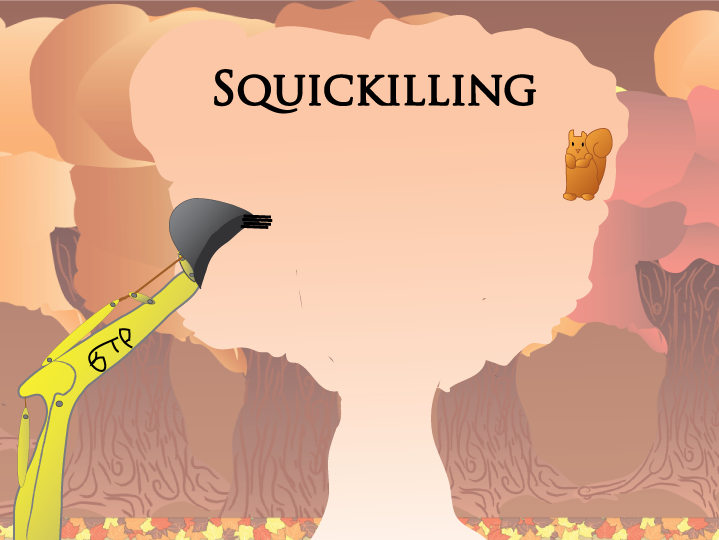
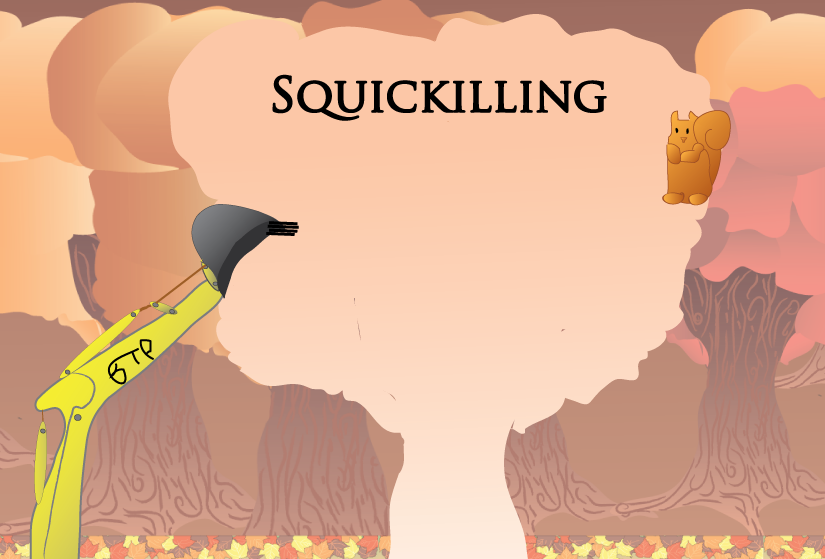
changes in menu and mine
I didn't resized the mine yet; mine_grey is too big, and mine_grey3 is
invisible... but with those pictures, it still works!

diff --git a/thegame/thegame/thegame/Instances.cs b/thegame/thegame/thegame/Instances.cs
@@ -89,7 +89,7 @@ namespace thegame
         // TODO: Should score stay here or should it be elsewhere?
 
         private bool Fullscreen;        // Set to true to switch to fullscreen
-        private bool SoundIsTrue;       // Set to true to switch the sound (on / off)
+        private bool SoundIs;       // Set to true to switch the sound (on / off)
         private Drawable tree;
         private Drawable tree_autumn_entrance_inside;
         private Drawable tree_autumn_exit;
@@ -265,7 +265,7 @@ namespace thegame
 
             this.game = game;
 
-            SoundIsTrue = true;
+            SoundIs = true;
             this.selected = gameState.SplashScreen;
             Init_Game();
             this.Execute();
@@ -287,7 +287,7 @@ namespace thegame
             {
                 if (curGameMode == instances_type.Menu)// MENU
                 {
-                    (execute as Menu).Update(gametime, keyboardState, oldkey, SoundIsTrue);
+                    (execute as Menu).Update(gametime, keyboardState, oldkey, SoundIs);
                 }
 
                 if (this.selected == gameState.MainMenu)
@@ -350,8 +350,8 @@ namespace thegame
                             if (keyboardState.IsKeyDown(Keys.Enter) && !oldkey.IsKeyDown(Keys.Enter)) // SOUND SETTINGS
                             {
                                 //this.selected = 4;
-                                SoundIsTrue = !SoundIsTrue;
-                                if (SoundIsTrue)
+                                SoundIs = !SoundIs;
+                                if (SoundIs)
                                     (execute as Menu).tab[2] = Text_Game["_mnuSound"] + " (" + Text_Game["_mnuOn"] + ")"; //sound on
                                 else
                                     (execute as Menu).tab[2] = Text_Game["_mnuSound"] + " (" + Text_Game["_mnuOff"] + ")"; // sound off
@@ -412,7 +412,7 @@ namespace thegame
                         case 0:
                             if (keyboardState.IsKeyDown(Keys.Enter) && !oldkey.IsKeyDown(Keys.Enter)) // ON BUTTON
                             {
-                                SoundIsTrue = true;
+                                SoundIs = true;
                                 this.selected = gameState.MainMenu;
                                 Execute();
                             }
@@ -420,7 +420,7 @@ namespace thegame
                         case 1:
                             if (keyboardState.IsKeyDown(Keys.Enter) && !oldkey.IsKeyDown(Keys.Enter)) // OFF BUTTON
                             {
-                                SoundIsTrue = false;
+                                SoundIs = false;
                                 this.selected = gameState.MainMenu;
                                 Execute();
                             }
@@ -652,7 +652,7 @@ namespace thegame
 
             if (Developpermode)
             {
-                SoundIsTrue = false;
+                SoundIs = false;
                 developperXMouse = mouse1.X;
                 developperYMouse = mouse1.Y;
                 if (getkey.Contains(Keys.C) && !developperCoord)
@@ -697,7 +697,7 @@ namespace thegame
 
                     //(execute as Menu).AddElements(Text_Game[8]);//sound
                     //      Next section modifies text on sound mode.
-                    if (SoundIsTrue)
+                    if (SoundIs)
                         (execute as Menu).AddElements(Text_Game["_mnuSound"] + " (" + Text_Game["_mnuOn"] + ")"); //sound on
                     else
                         (execute as Menu).AddElements((Text_Game["_mnuSound"] + " (" + Text_Game["_mnuOff"] + ")")); // sound off
@@ -883,7 +883,7 @@ namespace thegame
 
         public void Sound(string type)
         {
-            if (SoundIsTrue)
+            if (SoundIs)
                 if (type == "menu")
                     Textures.buttonSound_Effect.Play();
                 else

diff --git a/thegame/thegame/thegame/Drawable.cs b/thegame/thegame/thegame/Drawable.cs
@@ -27,7 +27,9 @@ namespace thegame
         game_over_vid,
         health,
         Nut,
-        Acorn
+        Acorn,
+        mine_grey,
+        mine_red
     }
 
     public class Drawable
@@ -95,6 +97,9 @@ namespace thegame
                     break;
                 case drawable_type.health:
                     image = Textures.healthBar_texture;
+                    break;
+                case drawable_type.mine_grey:
+                    image = Textures.mine_grey;
                     break;
                default:
                     image = null;

diff --git a/thegame/thegame/thegame/Bomb.cs b/thegame/thegame/thegame/Bomb.cs
@@ -14,6 +14,8 @@ namespace thegame
 {
     class Bomb
     {
+        private Drawable mine_grey = new Drawable(drawable_type.mine_grey);
+
         public Rectangle Object;
         private int x;
         private int y;
@@ -72,7 +74,8 @@ namespace thegame
             }
             else
             {
-                sb.Draw(Textures.hitbox, Object, Color.Gray);
+                //sb.Draw(Textures.hitbox, Object, Color.Gray);
+                mine_grey.Draw(sb, new Vector2(x, y));
             }
         }
     }
